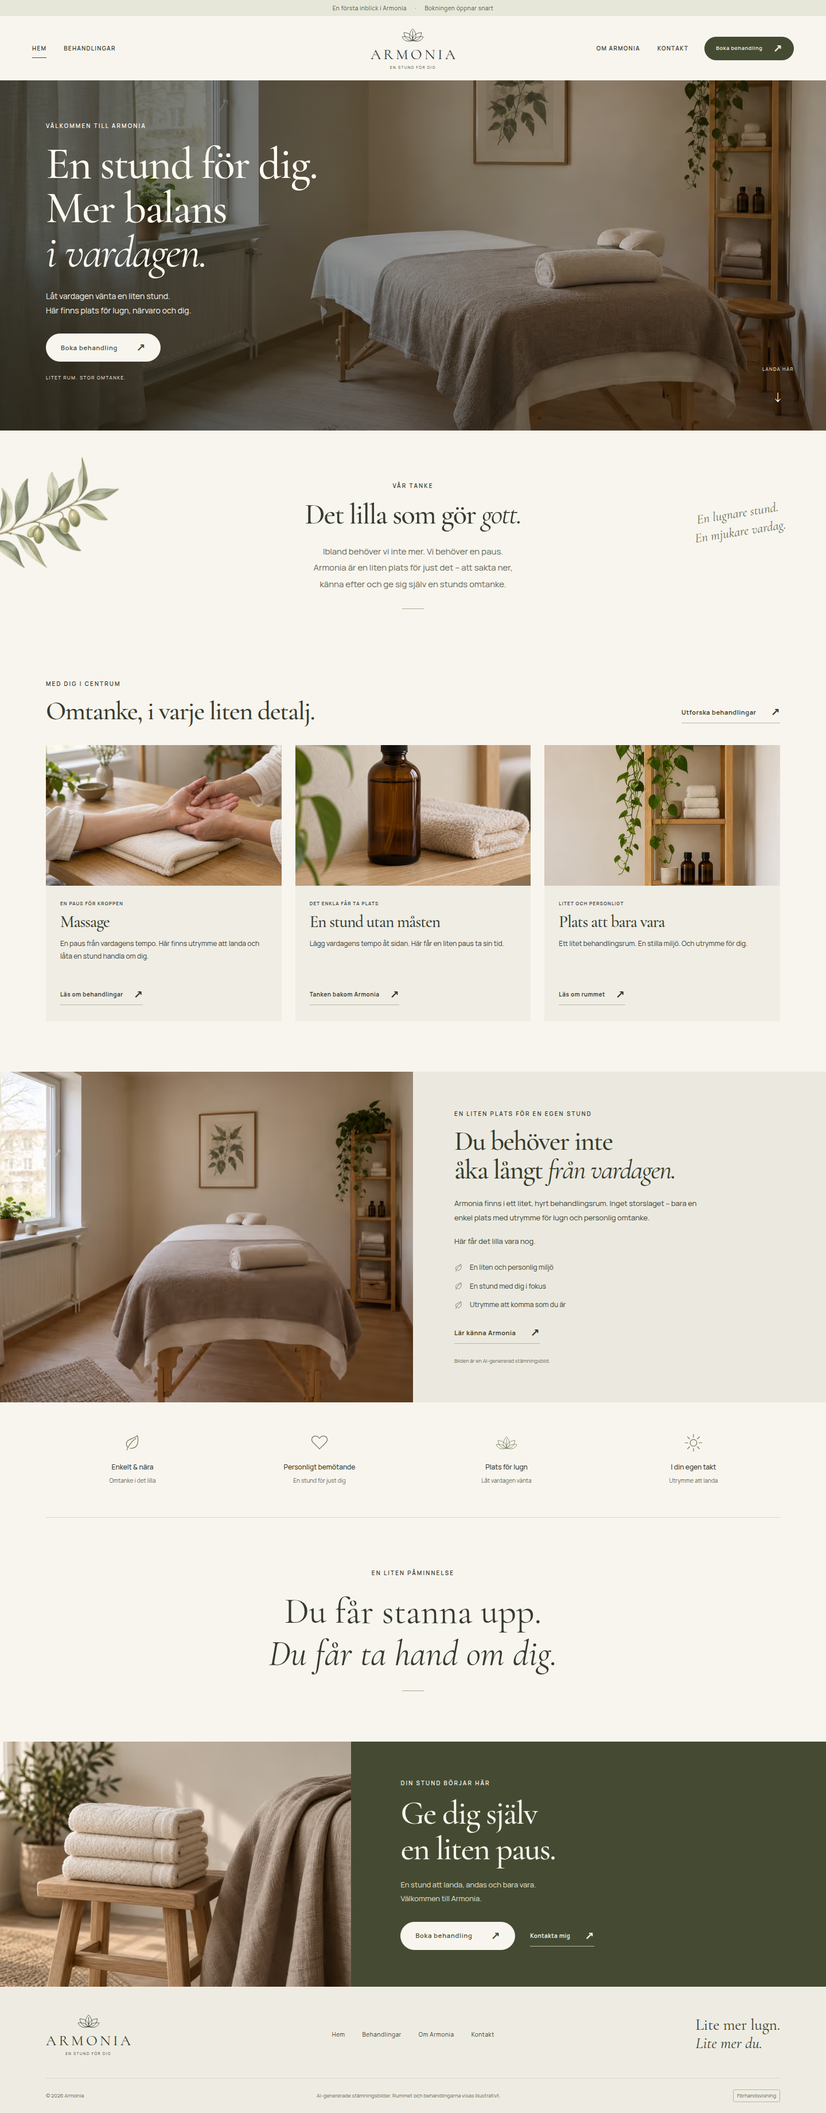
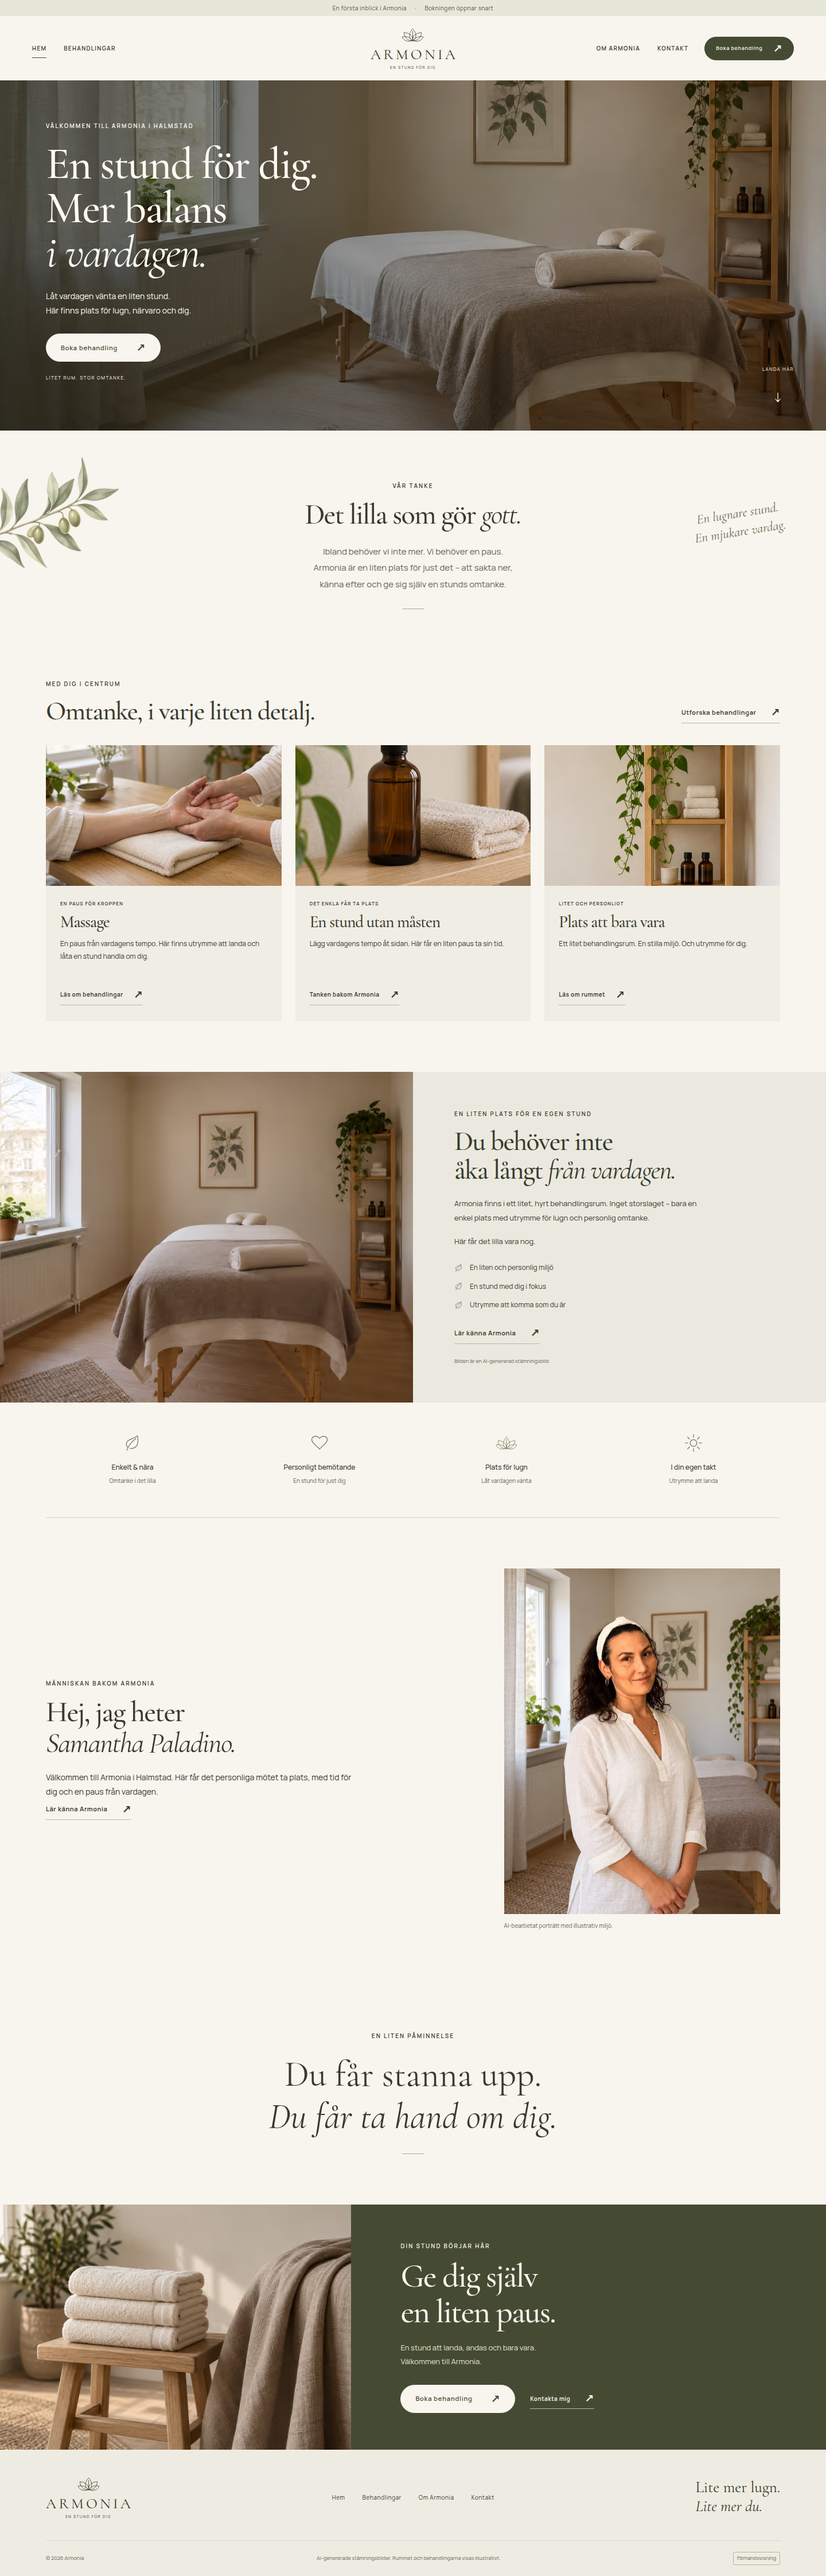
feat: introduce Samantha and provisional Halmstad booking details

diff --git a/tests/browser/site.spec.ts b/tests/browser/site.spec.ts
@@ -71,7 +71,10 @@ test('all page links and local anchors resolve', async ({ page, request }) => {
 });
 
 test('booking fallback explains missing booking service', async ({ page }) => {
-  test.skip(isHttpsUrl(business.bookingUrl), 'Real booking is configured.');
+  test.skip(
+    isHttpsUrl(business.bookingUrl),
+    'An external booking link is configured.',
+  );
   await page.goto('/');
   await page.locator('.hero .button').click();
   await expect(page).toHaveURL(/\/kontakt\/#bokning$/);
@@ -82,7 +85,7 @@ test('booking fallback explains missing booking service', async ({ page }) => {
     'Bokningslänk kompletteras',
   );
   await expect(page.locator('a[href^="mailto:"], a[href^="tel:"]')).toHaveCount(
-    0,
+    Number(Boolean(business.email)) + Number(Boolean(business.phone)),
   );
 });
 
@@ -146,4 +149,34 @@ test('homepage review screenshot', async ({ page }, testInfo) => {
     path: `test-results/home-${testInfo.project.name}.png`,
     fullPage: true,
   });
+});
+
+test('provisional booking and contact details are clear', async ({ page }) => {
+  test.skip(business.bookingUrlConfirmed, 'Final booking is confirmed.');
+  await page.goto('/kontakt/');
+  await expect(page.locator('#bokning')).toContainText('Bokadirekts startsida');
+  await expect(page.locator('#bokning .button')).toHaveAttribute(
+    'href',
+    business.bookingUrl!,
+  );
+  await expect(page.locator('address')).toContainText(business.streetAddress!);
+  await expect(page.locator('address')).toContainText(
+    `${business.postalCode} ${business.city}`,
+  );
+  await expect(page.locator('.contact-details')).toContainText(
+    'Preliminär adress',
+  );
+  await expect(page.locator('a[href^="tel:"]')).toHaveAttribute(
+    'href',
+    'tel:0734816735',
+  );
+  await expect(page.locator('a[href^="mailto:"]')).toHaveCount(0);
+  await page.goto('/');
+  await expect(page.locator('.hero .button')).toHaveAttribute(
+    'href',
+    business.bookingUrl!,
+  );
+  await expect(page.locator('#samantha-title')).toContainText(
+    'Samantha Paladino',
+  );
 });

diff --git a/src/styles/global.css b/src/styles/global.css
@@ -768,7 +768,8 @@
   }
   .practitioner-photo img {
     width: 100%;
-    aspect-ratio: 1;
+    object-position: center 30%;
+    aspect-ratio: 4 / 5;
     object-fit: cover;
   }
   .contact-layout {
@@ -1329,7 +1330,7 @@
       padding-inline: 5px;
     }
     .practitioner-photo img {
-      aspect-ratio: 1.3;
+      aspect-ratio: 4 / 5;
     }
     .contact-layout {
       grid-template-columns: 1fr;

diff --git a/src/data/site.ts b/src/data/site.ts
@@ -18,6 +18,8 @@ export interface Business {
   practitionerBio: string | null;
   email: string | null;
   phone: string | null;
+  addressConfirmed: boolean;
+  bookingUrlConfirmed: boolean;
   streetAddress: string | null;
   postalCode: string | null;
   city: string | null;

diff --git a/docs/STATUS.md b/docs/STATUS.md
@@ -19,11 +19,11 @@ The repository is public. GitHub Actions run [36618484081](https://github.com/Op
 
 Cloudflare access is working through a user-supplied token in the ignored local `.env.cloudflare` file (mode 0600). Its value is never stored in project documentation or Git. The previous Bitwarden token was invalid and is not used.
 
-Created the **armonia** Cloudflare Pages project in **Growthimize**, connected to `OptiLabResearch/armonia` through the existing GitHub integration. Cloudflare assigned `armonia-6hg.pages.dev`. The build command is `npm run build`, output is `dist`, and Node 24 is configured. Preview builds are enabled for `feat/swedish-armonia-site`. Production branch is `main`, with automatic production deployments disabled and the explicit launch gate enabled. This documentation push requests the first branch preview; its hosted result remains to be verified.
+Created the **armonia** Cloudflare Pages project in **Growthimize**, connected to `OptiLabResearch/armonia` through the existing GitHub integration. Cloudflare assigned `armonia-6hg.pages.dev`. The build command is `npm run build`, output is `dist`, and Node 24 is configured. Preview builds are enabled for `feat/swedish-armonia-site`. Production branch is `main`, with automatic production deployments disabled and the explicit launch gate enabled. The first branch preview deployed successfully (`2d3415c2-79b9-40bc-8d8f-10936a24f8f7`). Its stable preview address is https://feat-swedish-armonia-site.armonia-6hg.pages.dev.
 
 No custom domain or DNS record has been created. `armonia.optiqo.dev` had no existing DNS record when checked. Associate the hostname with Pages before creating its CNAME, after approved production is ready.
 
-Public launch remains blocked by missing confirmed practitioner details, contact/address/directions, treatment duration/price/approval, external booking URL, and Swedish copy approval. `launchReady` and `copyApproved` remain false. The initial `main` branch is only a bootstrap commit; website implementation is isolated on `feat/swedish-armonia-site` for PR review. No merge is authorized by this delivery.
+Public launch remains blocked by missing confirmed practitioner biography, email, address confirmation/directions, treatment duration/price/approval, final practitioner booking URL, and Swedish copy approval. `launchReady` and `copyApproved` remain false. The initial `main` branch is only a bootstrap commit; website implementation is isolated on `feat/swedish-armonia-site` for PR review. No merge is authorized by this delivery.
 
 ## Review notes
 
@@ -37,14 +37,22 @@ Browser accessibility checks identified two low-contrast secondary text colours;
 
 - `npm run check`: passed, zero errors/warnings/hints.
 - `npm run format:check`: passed.
-- `npm test`: seven unit tests passed.
-- `npm run build`: passed; five HTML pages plus robots and sitemap, 73 optimized image variants.
-- `npm run test:e2e`: 29 passed, one intentionally skipped desktop-only mobile-menu case. Checks cover 1440px, 768px, and 390px widths; axe reported no WCAG A/AA violations.
+- `npm test`: eight unit tests passed, including rejection of provisional address/booking values.
+- `npm run build`: passed; five HTML pages plus robots and sitemap, responsive image variants including the new Samantha portrait.
+- `npm run test:e2e`: 29 passed, four intentionally skipped cases (desktop mobile-menu plus three missing-booking fallbacks now that a temporary external link is configured). Checks cover 1440px, 768px, and 390px widths; axe reported no WCAG A/AA violations.
 - Additional overflow checks at 320px: all four routes passed.
 - `npm run check:launch` and a simulated Cloudflare `main` production build: failed as intended with the specific missing business details.
-- Generated foliage has a real alpha channel. All seven generated assets were visually inspected.
+- Generated foliage has a real alpha channel. All eight generated/edited assets were visually inspected.
 - Desktop/tablet/mobile homepage screenshots and desktop/mobile inner-page screenshots were captured for visual review. Durable homepage previews are in `docs/previews/`.
 - Final independent review verified the fixes and reported no remaining substantive bugs in its scope.
 - GitHub Actions run `36618484081`: all checks passed after the repository became public.
 
-Automated accessibility checks are not a complete accessibility certification. Browser execution was Chromium-only. Hosted Cloudflare preview verification is pending its first deployment. Real external booking, custom domain, and production HTTPS checks await confirmed business data and launch approval.
+Automated accessibility checks are not a complete accessibility certification. Browser execution was Chromium-only. The initial hosted preview returned HTTPS 200 for all four pages, social image, robots and sitemap, and 404 for an unknown route. Real external booking, custom domain, and production HTTPS checks await confirmed business data and launch approval.
+
+## Samantha content update
+
+The user confirmed Samantha Paladino, Halmstad, and telephone `0734 816 735`. These are in the centralized business data. The provisional address is Fiskaregatan 15, 302 90 Halmstad, as supplied by the user. It is visibly marked preliminary. Booking buttons temporarily open https://www.bokadirekt.se/; the contact page explains that this is the provider homepage, not an Armonia booking page. Separate address and booking-link confirmation flags keep both provisional values behind the launch gate. The selected email prefix is **hej**; `business.email` intentionally remains null until the actual `.se` domain and mailbox exist. The `.se` domain is not yet specified; existing preview/canonical configuration remains unchanged pending that decision.
+
+An original Samantha portrait from the user-provided https://sustineer.com/samantha-gallery was adapted with the built-in image generator for the homepage and about page. The reference is an actual portrait rather than a fictional practitioner. AI background/editing is disclosed in the UI and image manifest. No qualifications or biography have been inferred from the gallery.
+
+Samantha update validation: Astro checks and static build pass; eight unit tests pass; 29 Chromium checks pass across desktop/tablet/mobile with four conditional skips. Updated homepage screenshots were visually reviewed and saved in `docs/previews/`. The portrait retains the source likeness and is saved as `src/assets/images/samantha-portrait.png`; exact prompt and source URL are in the manifest.

diff --git a/README.md b/README.md
@@ -19,13 +19,13 @@ The development server runs at `http://localhost:4321`. `npm run build` writes t
 - `src/data/site.ts`: typed content interface, navigation, Swedish price formatting, and booking fallback.
 - `src/pages/`: Swedish editorial copy for home, treatments, about, contact, and the 404 page.
 - `src/styles/global.css`: cream/olive palette, typography, shared components, and responsive layouts.
-- `src/assets/images/`: seven original AI-generated assets. Their prompts and provenance are recorded in `docs/image-prompts.json`.
+- `src/assets/images/`: seven original AI-generated assets and one edited Samantha portrait. Their prompts and provenance are recorded in `docs/image-prompts.json`.
 
 The sole initial treatment entry, **Massage**, is provisional. Confirm its name, copy, price in SEK, and duration in minutes; set `confirmed: true` only after approval. No other services, qualifications, client reviews, or specific health outcomes have been invented. Additional treatments use the same generic massage image until appropriate treatment-specific imagery is added.
 
 Set `bookingUrl` to an HTTPS URL from the actual external booking service. A treatment may override it with its own HTTPS `bookingUrl`, or use `null` to inherit the site-wide link. Missing/invalid links lead to `/kontakt/#bokning`, which clearly explains the pending booking setup. No nonfunctional contact form or fake contact links are shown.
 
-Room images depict a modest imaginary treatment room, not the actual premises. The site labels them as illustrative. Never use a generated portrait to represent the real practitioner. The treatment illustration is a fully clothed hand-and-forearm massage close-up.
+Room images depict a modest imaginary treatment room, not the actual premises. The site labels them as illustrative. Samantha’s portrait is an AI edit of her real photograph from the owner-supplied gallery, with an illustrative background and a visible disclosure. Preserve her likeness; never substitute a fictional practitioner. The treatment illustration is a fully clothed hand-and-forearm massage close-up.
 
 Astro generates responsive AVIF/WebP/JPEG variants during the build. The foliage keeps its transparency. Fonts are served locally from Fontsource packages. If the hero changes, regenerate the social crop with `node scripts/build-social.mjs` and commit `public/social.jpg`.
 
@@ -56,3 +56,7 @@ ARMONIA_REQUIRE_LAUNCH_READY=1 npm run build
 Both commands deliberately fail until required business details and treatments are complete, `copyApproved` is `true`, and `launchReady` is `true`. This prevents a production Pages build from publishing unresolved content. Re-read all editorial copy with the practitioner before setting the approval flags. Do not change the validation to make a draft pass.
 
 See [Cloudflare setup](docs/deployment.md) and [delivery status](docs/STATUS.md).
+
+### Provisional contact details
+
+Samantha Paladino, Halmstad and telephone 0734 816 735 are supplied by the owner. Fiskaregatan 15, 302 90 Halmstad is provisional (`addressConfirmed: false`). The current booking URL is the temporary Bokadirekt homepage (`bookingUrlConfirmed: false`); replace it with the practitioner booking page and confirm it before launch. The chosen email prefix is `hej`; leave `email` null until the exact `.se` domain and mailbox are ready. Do not guess a domain.
